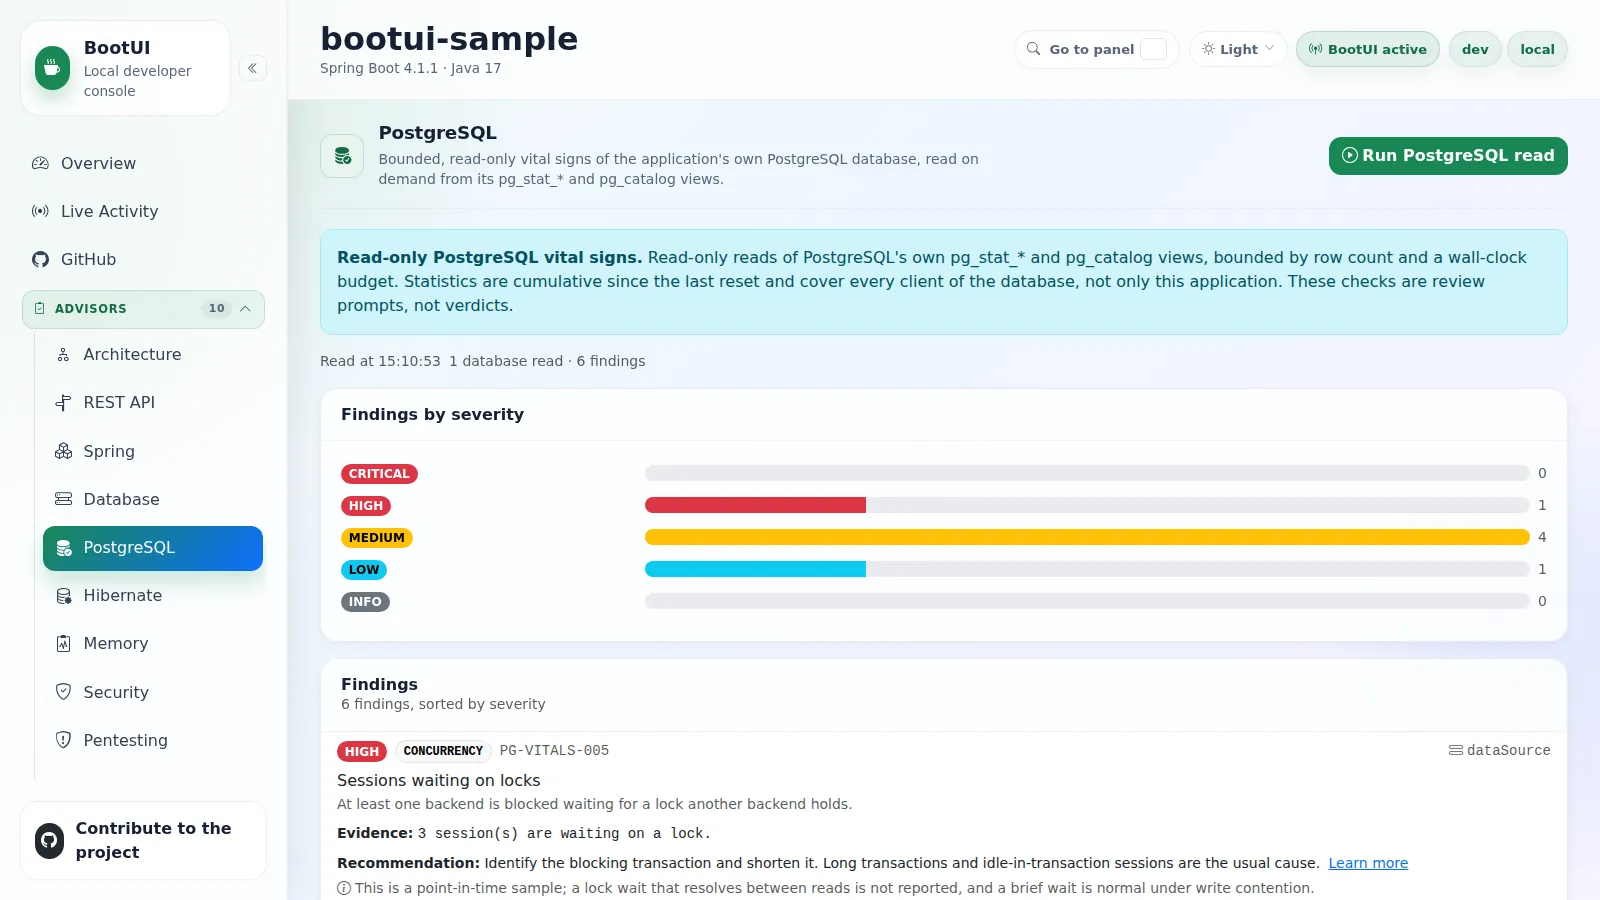
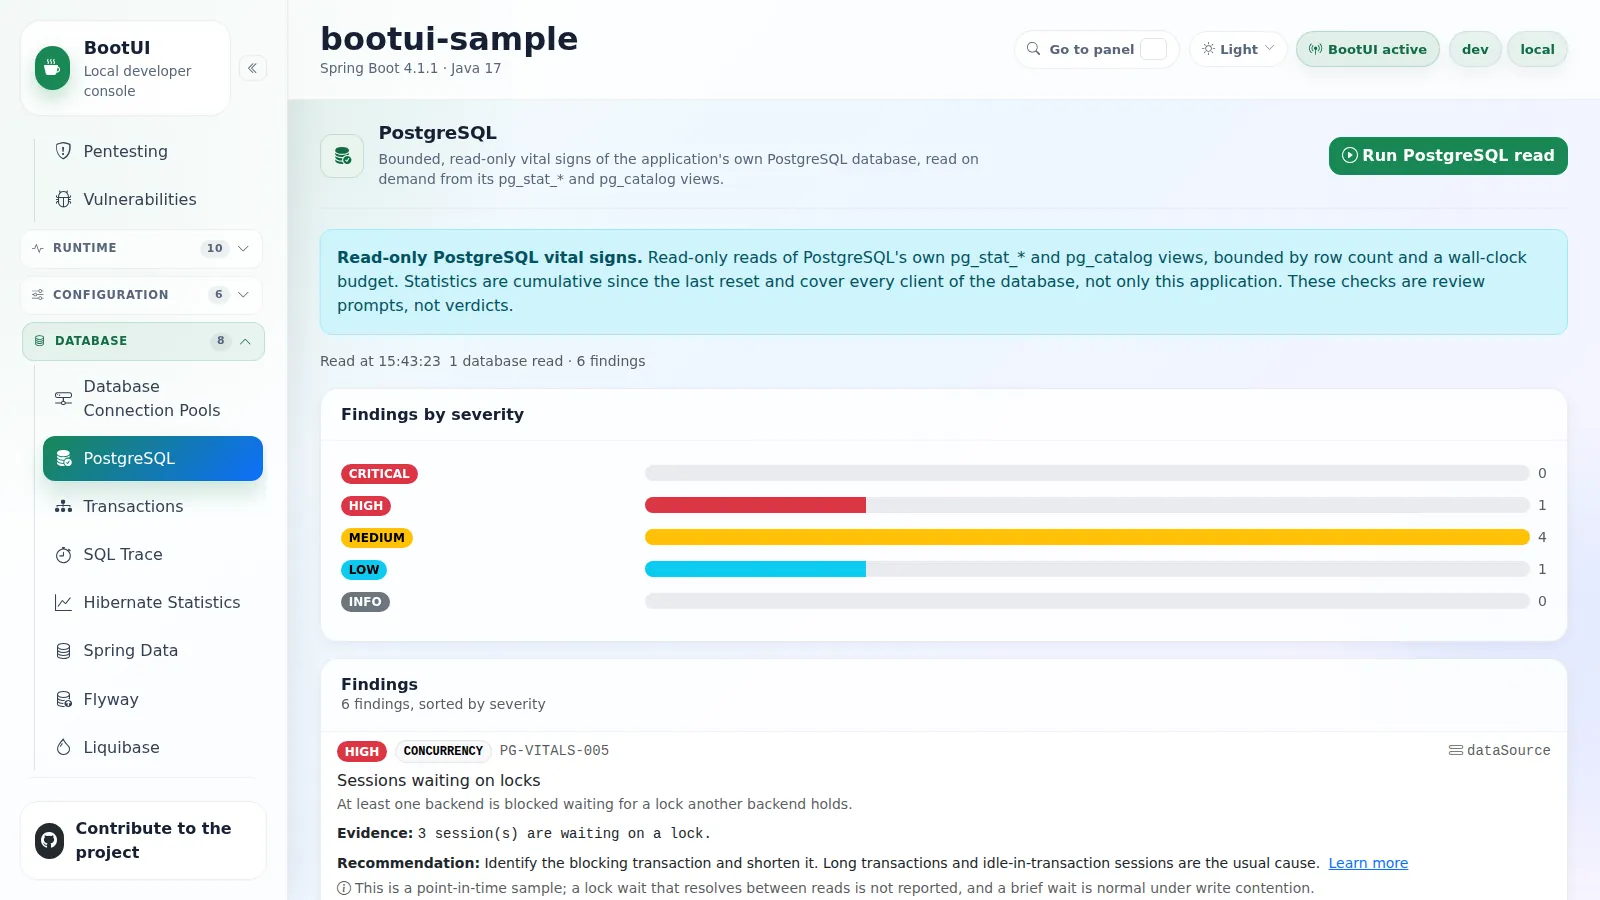
Regenerate the screenshot and document the PostgreSQL panel's access settings and MCP tools

diff --git a/docs/features/developer-tools.md b/docs/features/developer-tools.md
@@ -33,7 +33,7 @@ groups:
   request or trace. `get_exception_detail` returns a selected exception group's stack trace, causes, and occurrences.
 - **Runtime and integration reads:** `get_overview`, `get_health`, `get_config`, `get_beans`, `get_mappings`,
   `get_loggers`, `get_conditions`, `get_http_sessions`, `get_scheduled_tasks`, `get_fault_tolerance`, `get_cache_stats`,
-  `get_database_connection_pools`, `get_metrics`, `get_live_memory`, `get_jvm_tuning`, `get_heap_dump_report`,
+  `get_database_connection_pools`, `get_postgresql_report`, `get_metrics`, `get_live_memory`, `get_jvm_tuning`, `get_heap_dump_report`,
   `get_threads`, `get_startup_timeline`, `get_profile_diff`, `get_spring_data_repositories`,
   `get_flyway_migrations`, `get_liquibase_changesets`, `get_spring_security`, `get_ai_overview`, `get_emails`,
   `get_kafka_activity`, `get_rabbitmq_activity`, `get_jms_activity`, `get_devtools_status`, `get_dev_services`,
@@ -42,7 +42,7 @@ groups:
 - **Bounded controls:** `clear_exceptions`, `clear_sql_traces`, `pause_sql_trace_recording`,
   `resume_sql_trace_recording`, `clear_transactions`, `pause_transaction_recording`, `resume_transaction_recording`,
   `clear_traces`, `clear_rest_client_traces`, `pause_rest_client_recording`, `resume_rest_client_recording`,
-  `analyze_heap_dump`, and `trigger_devtools_livereload`. Destructive, database-mutating, arbitrary-command,
+  `postgresql_read`, `analyze_heap_dump`, and `trigger_devtools_livereload`. Destructive, database-mutating, arbitrary-command,
   heap-capture/download, HTTP-probe, GitHub-write, and dev-service-restart operations are deliberately not exposed.
 
 Tools whose backing panel/controller is not present (for example Hibernate or Spring Security when those libraries are

diff --git a/docs/PROPERTIES.md b/docs/PROPERTIES.md
@@ -183,6 +183,7 @@ Enforced identically on Spring and Quarkus (`PanelAccessFilter` / `QuarkusPanelA
 | Configuration   | Conditions                | `conditions`                | `bootui.panels.conditions.enabled`                | Not applicable; view-only.                |
 | Configuration   | Mappings                  | `mappings`                  | `bootui.panels.mappings.enabled`                  | Not applicable; view-only.                |
 | Database        | Database Connection Pools | `database-connection-pools` | `bootui.panels.database-connection-pools.enabled` | Not applicable; view-only.                |
+| Database        | PostgreSQL                | `postgresql`                | `bootui.panels.postgresql.enabled`                | `bootui.panels.postgresql.read-only`      |
 | Database        | Transactions              | `transactions`              | `bootui.panels.transactions.enabled`              | `bootui.panels.transactions.read-only`    |
 | Database        | SQL Trace                 | `sql-trace`                 | `bootui.panels.sql-trace.enabled`                 | `bootui.panels.sql-trace.read-only`       |
 | Database        | Hibernate Statistics      | `hibernate-statistics`      | `bootui.panels.hibernate-statistics.enabled`      | `bootui.panels.hibernate-statistics.read-only` |
